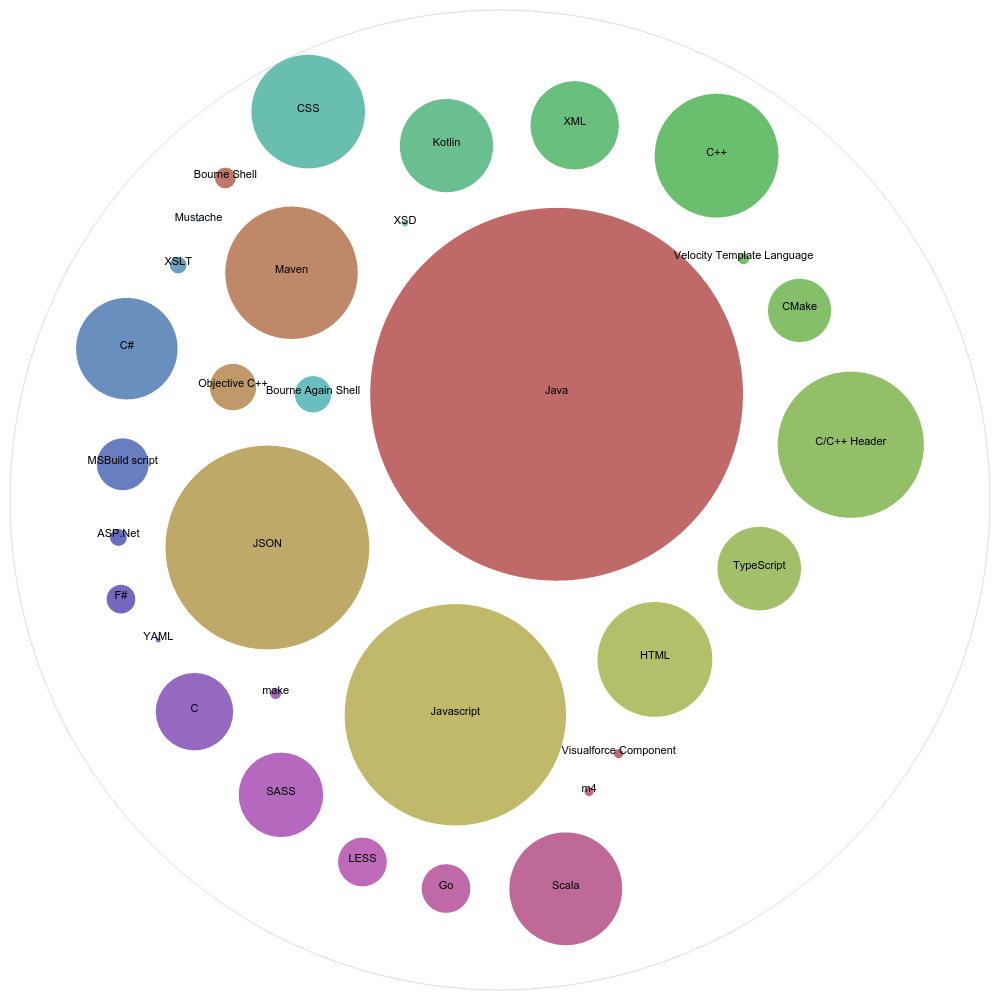
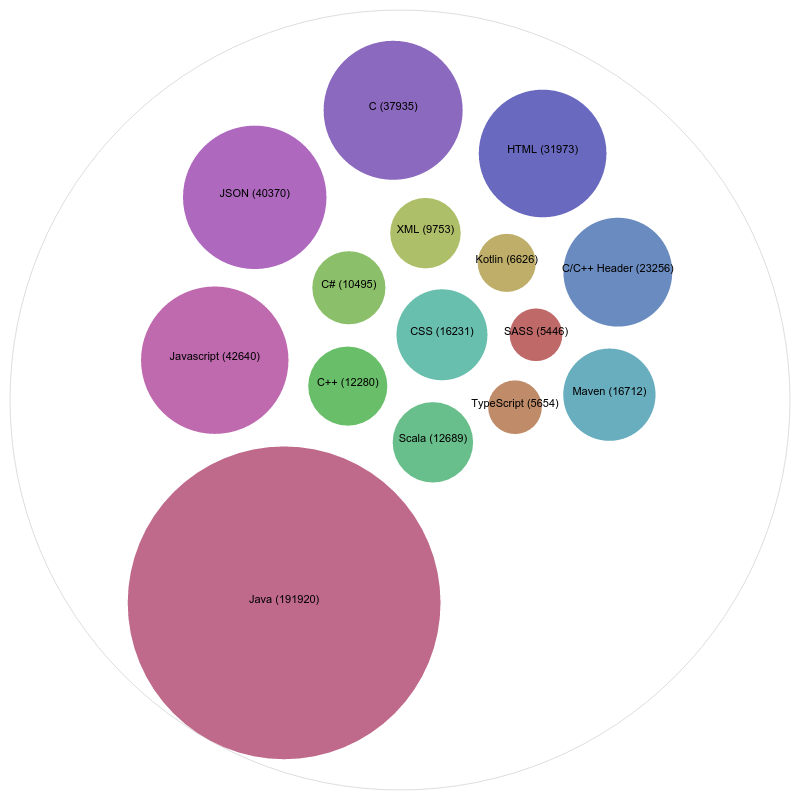
advanced queries

diff --git a/README.md b/README.md
@@ -37,13 +37,41 @@ With [Raw](http://raw.densitydesign.org/) we can quickly generate nice dataviz :
 ![Languages distribution](example.png)
 
 ```sql
--- Excludes minified files, standards and files too big to be relevant.
--- One we have gathered enough data we can limit ourselves to a subset of languages.
+# count the number of loc by language, no data cleanup
+SELECT sum(x.nCode) as cptr, x.Language FROM t as x GROUP BY x.Language ORDER BY cptr DESC;
+
+# select every relevant datas
 SELECT *
 FROM t
 WHERE t.File NOT LIKE "%.min.js"
 AND t.File_basename <> 'nodes.d.ts'
 AND t.File_basename <> 'font-awesome.css'
+AND t.File_basename NOT LIKE 'jquery%.js'
+AND  t.File_basename <> 'bootstrap.css'
 AND nCode < 10000
 ORDER BY t.nCode DESC;
+
+# count the number of files in the db
+SELECT count(*)
+FROM t
+WHERE t.File NOT LIKE "%.min.js"
+AND t.File_basename <> 'nodes.d.ts'
+AND t.File_basename <> 'font-awesome.css'
+AND t.File_basename NOT LIKE 'jquery%.js'
+AND  t.File_basename <> 'bootstrap.css'
+AND nCode < 10000
+ORDER BY t.nCode DESC;
+
+# Prettify the selection, cleanup + nice text and limit to the top 15
+SELECT sum(t.nCode) as ttCode, CONCAT(t.Language, ' (', sum(t.nCode), ')') as Libelle
+FROM t
+WHERE t.File NOT LIKE "%.min.js"
+AND t.File_basename <> 'nodes.d.ts'
+AND t.File_basename <> 'font-awesome.css'
+AND t.File_basename NOT LIKE 'jquery%.js'
+AND  t.File_basename <> 'bootstrap.css'
+AND nCode < 10000
+GROUP BY t.Language
+ORDER BY ttCode DESC
+LIMIT 15;
 ```
